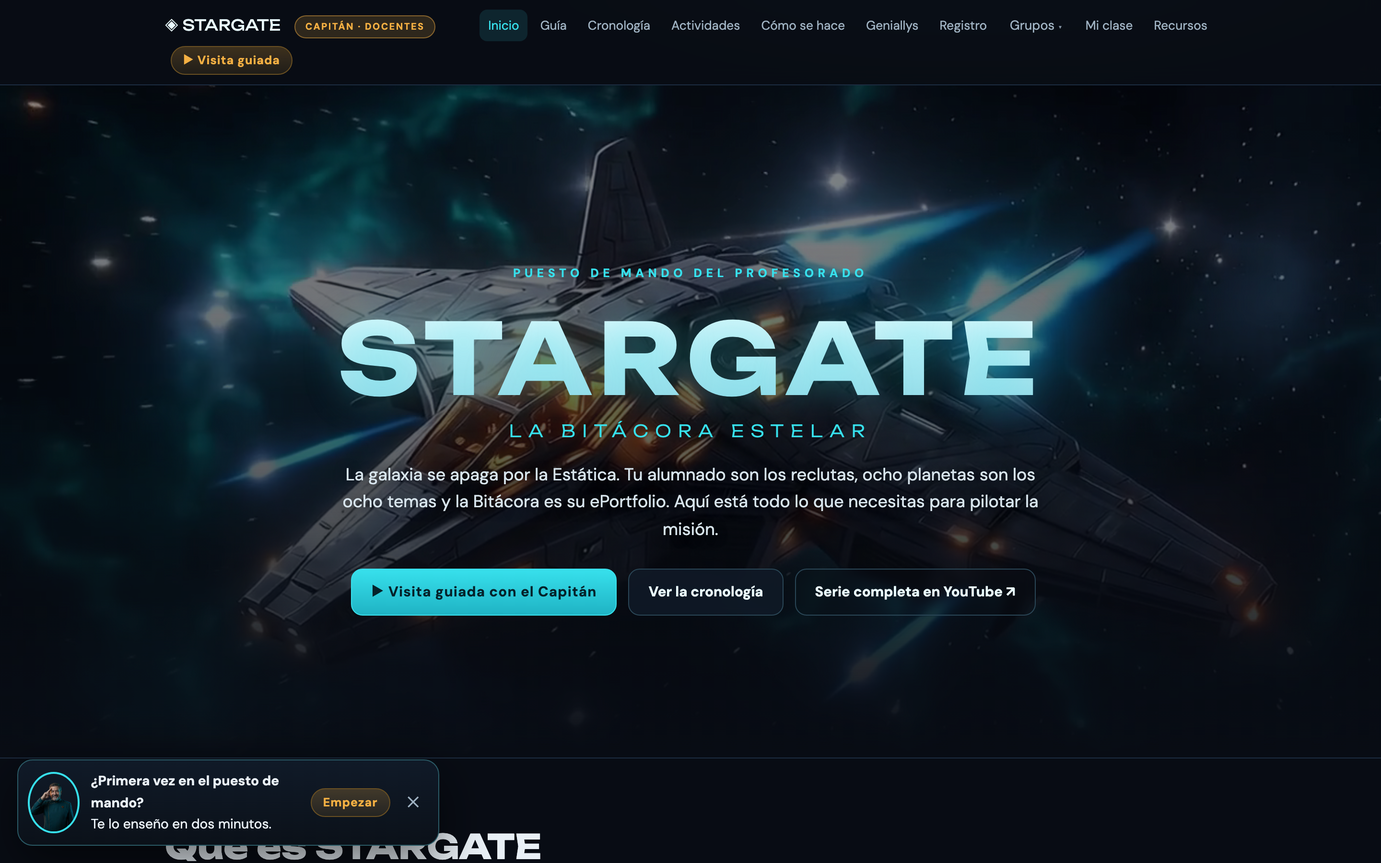
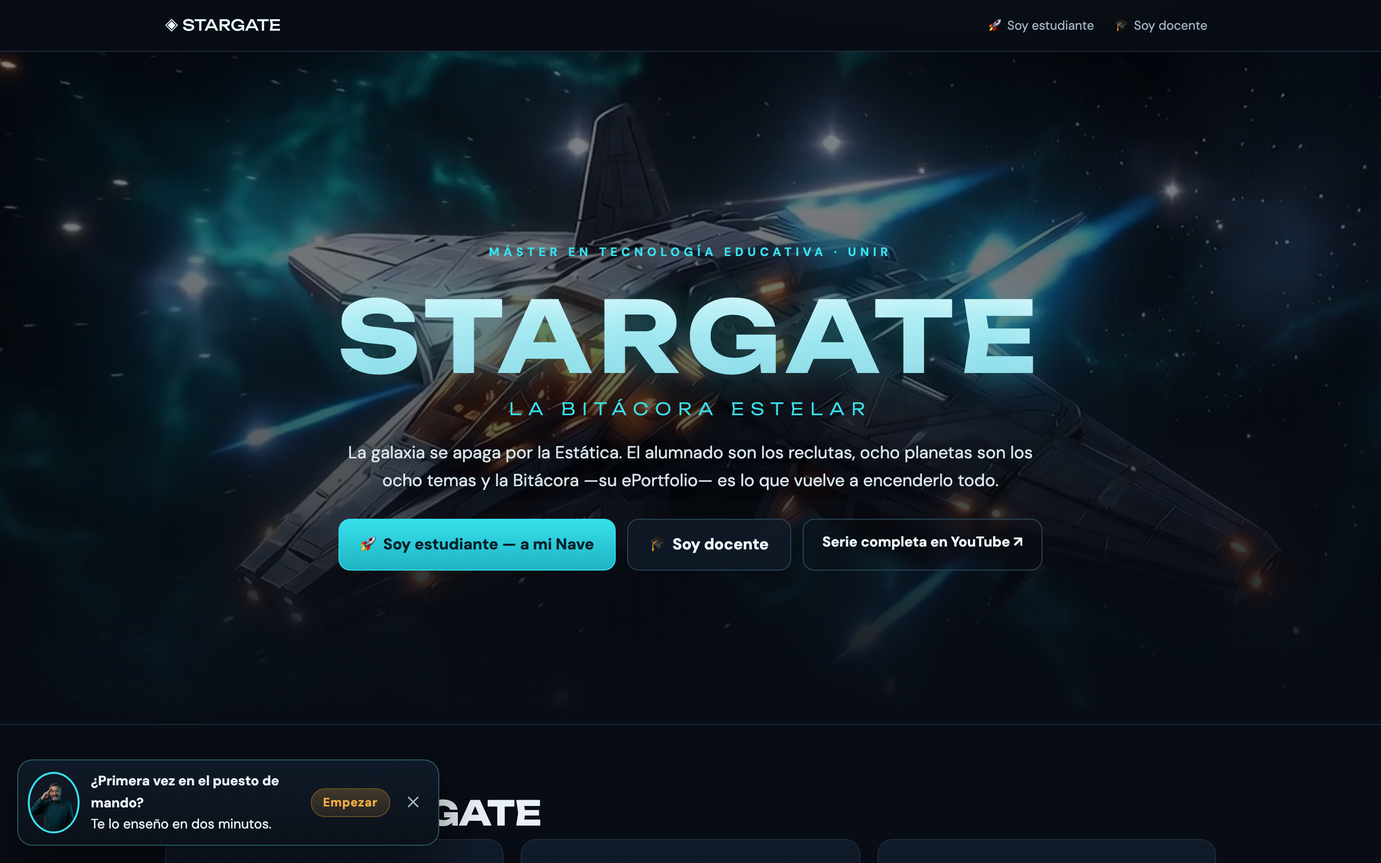
El globo del Capitan se colaba en la portada publica
Visto en una captura: la portada seguia preguntando «¿primera vez en el puesto
de mando?» — a cualquiera que pasara, un estudiante incluido. Vivia ahi de
cuando index.html ERA el puesto de mando; ahora saluda en guia.html, que es
adonde lleva «Soy docente».

De paso, por que no lo habia cazado el capturador: su barrido borraba las claves
que empiezan por «sgTour_», y esta se llama «sgTourDone» — sin guion bajo. Se
pone a mano.

tour.js se GENERA desde _build_site.py, asi que el arreglo va en la fuente:
tocar assets/js/tour.js se habria perdido en el siguiente build.

Bateria 43 vigila ahora que la portada no lleve nada del profesorado.

45 baterias · 1.999 comprobaciones · 0 fallos

diff --git a/pasos.html b/pasos.html
@@ -21,7 +21,7 @@
 Es la misma información que habría en un vídeo, pero se actualiza con el sistema en vez de envejecer con él.</p></header>
 <section id="pasos"><div class="wrap">
 <div class="caminos" role="tablist" aria-label="Elige tu camino"><button class="camino-tab" role="tab" aria-selected="true" aria-controls="cam-referente" id="tab-referente" data-camino="referente"><i>🛰</i><b>Si creas el grupo<span>Nueve pasos · se hacen UNA vez por grupo</span></b></button><button class="camino-tab" role="tab" aria-selected="false" aria-controls="cam-imparte" id="tab-imparte" data-camino="imparte"><i>🎓</i><b>Si das las clases<span>Seis pasos · cuatro de ellos son lo que harás cada semana</span></b></button><button class="camino-tab" role="tab" aria-selected="false" aria-controls="cam-estudiante" id="tab-estudiante" data-camino="estudiante"><i>🧑🚀</i><b>Si eres recluta<span>Ocho pasos · el segundo es el que importa de verdad</span></b></button></div>
-<section class="camino-panel" id="cam-referente" role="tabpanel" aria-labelledby="tab-referente"><div class="camino-intro"><p><b>Para quién:</b> El profe <b>referente</b>: una persona por curso. Crea el PER y reparte las llaves.</p><p>Todo esto vive dentro de la hoja maestra, en la cuenta <b>mutecdgami</b>. Es la única parte del sistema que no se puede enseñar desde la web, así que va con capturas.</p></div><article class="paso" id="R1"><div class="paso-num"><img class="cap" src="assets/img/capitan/saluda.png" alt="" loading="lazy"><span class="n">R1</span></div><div class="paso-cuerpo"><h3><a href="#R1">La sala de máquinas</a></h3><p class="paso-hacer">Hoja maestra → pestaña <code>PERs</code> → menú <b>STARGATE</b> desplegado.</p><figure><img src="assets/img/pasos/r1_menu.png?v=cfa4161172" alt="La sala de máquinas" loading="lazy"></figure><p class="paso-voz">Esto es la sala de máquinas de STARGATE. Es una hoja de cálculo, y desde ese menú se hace todo. Si eres el profe referente de tu grupo, esta página es para ti. Son nueve pasos, y luego casi no vuelves por aquí.</p></div></article><article class="paso" id="R2"><div class="paso-num"><img class="cap" src="assets/img/capitan/tablet.png" alt="" loading="lazy"><span class="n">R2</span></div><div class="paso-cuerpo"><h3><a href="#R2">Lo primero: el parte de salud</a></h3><p class="paso-hacer">Menú <b>STARGATE → Parte de salud del sistema</b>.</p><figure><img src="assets/img/pasos/r2_salud.png?v=c991e17fea" alt="Lo primero: el parte de salud" loading="lazy"></figure><p class="paso-voz">Antes de crear nada, esto. El parte de salud revisa el sistema entero y te dice en verde, ámbar o rojo qué está bien y qué no. Cuando algo falla, además te dice cómo se arregla. Empieza siempre por aquí, y vuelve cuando algo se comporte raro.</p></div></article><article class="paso" id="R3"><div class="paso-num"><img class="cap" src="assets/img/capitan/pensativo.png" alt="" loading="lazy"><span class="n">R3</span></div><div class="paso-cuerpo"><h3><a href="#R3">Crear el grupo</a></h3><p class="paso-hacer">Menú <b>STARGATE → Crear nuevo PER…</b> y rellenar el diálogo.</p><figure><img src="assets/img/pasos/r3_crear.png?v=c8083608e5" alt="Crear el grupo" loading="lazy"></figure><p class="paso-voz">Un PER es un grupo: un curso concreto con su gente y su calendario. El nombre es para ti. El tipo cambia el ritmo, porque REGULAR son quince semanas y PUA va comprimido. Y la fecha de la semana uno es la pieza importante: de ella dependen el foro, los desbloqueos de la Nave y las recompensas. Ponla bien y olvídate.</p></div></article><article class="paso" id="R4"><div class="paso-num"><img class="cap" src="assets/img/capitan/brazos.png" alt="" loading="lazy"><span class="n">R4</span></div><div class="paso-cuerpo"><h3><a href="#R4">Lo que aparece solo</a></h3><p class="paso-hacer">Pulsa <b>Crear</b> y espera. Al terminar sale un diálogo con todo lo creado.</p><div class="paso-falta"><b>Captura pendiente</b>Esta pantalla vive detrás de un PIN o dentro de la hoja maestra, así que el generador no puede entrar a por ella. Se añade dejando el PNG en <code>assets/img/pasos/</code> y volviendo a construir.</div><p class="paso-voz">Un minuto de paciencia. En ese minuto el sistema crea los tres formularios del grupo, el tablero en vivo, la Nave del recluta, el foro dinámico y un documento con todos los enlaces. No hay que configurar nada más: ya está funcionando.</p></div></article><article class="paso" id="R5"><div class="paso-num"><img class="cap" src="assets/img/capitan/senala.png" alt="" loading="lazy"><span class="n">R5</span></div><div class="paso-cuerpo"><h3><a href="#R5">El documento de enlaces</a></h3><p class="paso-hacer">Ábrelo desde el diálogo, o menú <b>STARGATE → Documento de enlaces y embeds</b>.</p><figure><img src="assets/img/pasos/r5_doc.png?v=75c490e360" alt="El documento de enlaces" loading="lazy"></figure><p class="paso-voz">Este documento es lo único que tienes que repartir, y está partido en dos. Lo de arriba, con el visto verde, es lo que puedes dar al alumnado sin miedo. Lo de abajo, con el candado, es solo para el profesorado: lleva dentro el enlace a la hoja maestra. No mandes el documento entero a una clase.</p></div></article><article class="paso" id="R6"><div class="paso-num"><img class="cap" src="assets/img/capitan/pensativo.png" alt="" loading="lazy"><span class="n">R6</span></div><div class="paso-cuerpo"><h3><a href="#R6">Las dos llaves</a></h3><p class="paso-hacer">Menú <b>STARGATE → Cambiar PIN del profesorado</b> y <b>→ PIN del profesor referente</b>.</p><figure><img src="assets/img/pasos/r6_pin.png?v=bc19ac964c" alt="Las dos llaves" loading="lazy"></figure><p class="paso-voz">Hay dos llaves. El PIN del profesorado lo repartes entre quienes dan clase, y les abre su sala y los tickets. El de referente te lo quedas tú, y es el que permite tocar el grupo entero: mover la semana uno, cerrar formularios, archivar. Cámbialos los dos antes de que entre nadie de verdad.</p></div></article><article class="paso" id="R7"><div class="paso-num"><img class="cap" src="assets/img/capitan/tablet.png" alt="" loading="lazy"><span class="n">R7</span></div><div class="paso-cuerpo"><h3><a href="#R7">Repartir sin perseguir a nadie</a></h3><p class="paso-hacer">Menú <b>STARGATE → Dossier del profesorado</b>, y después <b>Enviar el dossier por correo</b>.</p><figure><img src="assets/img/pasos/r7_dossier.png?v=8d94f12671" alt="Repartir sin perseguir a nadie" loading="lazy"></figure><p class="paso-voz">En vez de mandar enlaces uno a uno, el dossier reúne todos los grupos y a cada docente le llega por correo lo suyo. Si alguien lo pierde, se vuelve a mandar y ya está.</p></div></article><article class="paso" id="R8"><div class="paso-num"><img class="cap" src="assets/img/capitan/senala.png" alt="" loading="lazy"><span class="n">R8</span></div><div class="paso-cuerpo"><h3><a href="#R8">Cuando el curso acaba</a></h3><p class="paso-hacer">Selecciona la fila del grupo → menú <b>STARGATE → Ciclo de vida del PER</b>.</p><figure><img src="assets/img/pasos/r8_ciclo.png?v=fe4bf85fce" alt="Cuando el curso acaba" loading="lazy"></figure><p class="paso-voz">Cuando un grupo termina, se archiva: cierra los formularios, lo quita de en medio y conserva todos los datos. Borrar es otra cosa, y se lleva los formularios por delante, así que te pide escribir el nombre del grupo para asegurarse. Archivar es lo normal.</p></div></article><article class="paso" id="R9"><div class="paso-num"><img class="cap" src="assets/img/capitan/pulgar.png" alt="" loading="lazy"><span class="n">R9</span></div><div class="paso-cuerpo"><h3><a href="#R9">Y ya está</a></h3><p class="paso-hacer">Vuelve a la pestaña <code>PERs</code>: ahí vive tu grupo.</p><figure><img src="assets/img/pasos/r9_pers.png?v=e91679a40b" alt="Y ya está" loading="lazy"></figure><p class="paso-voz">A partir de aquí esto funciona solo. El alumnado se registra, el tablero se actualiza y a quien da clase le llega lo suyo. Si algo va raro, el parte de salud. Nos vemos arriba.</p></div></article></section><section class="camino-panel" id="cam-imparte" role="tabpanel" aria-labelledby="tab-imparte" hidden><div class="camino-intro"><p><b>Para quién:</b> Quien <b>imparte</b>. Recibes el PIN y el documento de enlaces de tu referente.</p><p>Corto a propósito. La <b>visita guiada</b> del Capitán ya te cuenta la narrativa, los retos y las insignias — púlsala arriba a la derecha. Aquí está solo lo que se hace cada semana.</p></div><article class="paso" id="D1"><div class="paso-num"><img class="cap" src="assets/img/capitan/saluda.png" alt="" loading="lazy"><span class="n">D1</span></div><div class="paso-cuerpo"><h3><a href="#D1">El atajo que deberías usar primero</a></h3><p class="paso-hacer">Portada de la web → botón <b>▶ Visita guiada</b>, arriba a la derecha.</p><figure><img src="assets/img/pasos/d1_portada.png?v=8e2f2f3e3b" alt="El atajo que deberías usar primero" loading="lazy"></figure><p class="paso-voz">Bienvenido al puesto de mando. Antes de nada, ese botón de arriba a la derecha. La visita guiada te cuenta en cinco minutos qué es STARGATE, cómo funcionan los retos y qué hace cada insignia, y te pregunta si eres referente para enseñarte más cosas o menos. Hazla cuando termines esta página. Aquí voy a enseñarte solo las cuatro cosas que harás cada semana.</p></div></article><article class="paso" id="D2"><div class="paso-num"><img class="cap" src="assets/img/capitan/senala.png" alt="" loading="lazy"><span class="n">D2</span></div><div class="paso-cuerpo"><h3><a href="#D2">Uno: la orden de la semana</a></h3><p class="paso-hacer"><b>Cronología</b> → despliega la semana que toque → abajo, botón <b>Copiar</b> del foro.</p><figure><img src="assets/img/pasos/d2_cronologia.png?v=676fe2d90e" alt="Uno: la orden de la semana" loading="lazy"></figure><p class="paso-voz">La cronología es tu carta de navegación: quince semanas, y cada una te dice qué vídeo proyectar, qué reto lanzar y qué insignia entregar. Abajo del todo está el mensaje del foro, ya escrito. Lo copias, lo pegas en el foro de la plataforma de UNIR y sigues con tu vida.</p></div></article><article class="paso" id="D3"><div class="paso-num"><img class="cap" src="assets/img/capitan/tablet.png" alt="" loading="lazy"><span class="n">D3</span></div><div class="paso-cuerpo"><h3><a href="#D3">Dos: tu sala</a></h3><p class="paso-hacer"><b>Mi clase</b> → PIN → pulsa cualquier alumno para abrir su ficha completa.</p><figure><img src="assets/img/pasos/d3_sala.png?v=cbc8a491cc" alt="Dos: tu sala" loading="lazy"></figure><p class="paso-voz">Esta es tu sala, y solo sale tu alumnado, no el del grupo entero. Si pulsas a cualquiera se abre su ficha completa: lo que lleva hecho, sus insignias, sus créditos y su correo, por si tienes que escribirle. Desde aquí también puedes darle o quitarle un reto a mano cuando algo se tuerza.</p></div></article><article class="paso" id="D4"><div class="paso-num"><img class="cap" src="assets/img/capitan/brazos.png" alt="" loading="lazy"><span class="n">D4</span></div><div class="paso-cuerpo"><h3><a href="#D4">Tres: el pase de lista</a></h3><p class="paso-hacer">En tu sala, bloque del <b>pase de lista</b> → <b>Abrir</b>. Sale una palabra de cuatro letras.</p><figure><img src="assets/img/pasos/d4_pase.png?v=ca01a3988b" alt="Tres: el pase de lista" loading="lazy"></figure><p class="paso-voz">Si das clase en directo, esto. Abres la ventana y en tu pantalla sale una palabra de cuatro letras. Quien está en clase la escribe en su Nave y cobra unos créditos. La palabra no viaja a ningún sitio: solo la ve quien te está mirando. Es simbólico, pero funciona.</p></div></article><article class="paso" id="D5"><div class="paso-num"><img class="cap" src="assets/img/capitan/pensativo.png" alt="" loading="lazy"><span class="n">D5</span></div><div class="paso-cuerpo"><h3><a href="#D5">Cuatro: los tickets</a></h3><p class="paso-hacer"><b>Tickets</b> → PIN → pulsa cualquier valoración para verla en grande.</p><figure><img src="assets/img/pasos/d5_tickets.png?v=dc8154792b" alt="Cuatro: los tickets" loading="lazy"></figure><p class="paso-voz">El ticket de salida es tu termómetro, y es anónimo, así que la gente dice lo que piensa de verdad. Pulsa cualquier resultado y se ve en grande. Y hay una versión apaisada pensada para proyectarla en clase: enseñar lo que ha votado el grupo genera más conversación que preguntarlo en voz alta.</p></div></article><article class="paso" id="D6"><div class="paso-num"><img class="cap" src="assets/img/capitan/pulgar.png" alt="" loading="lazy"><span class="n">D6</span></div><div class="paso-cuerpo"><h3><a href="#D6">Lo único que el sistema no hace por ti</a></h3><p class="paso-hacer">El tablero en vivo, con los tres rankings.</p><figure><img src="assets/img/pasos/d6_tablero.png?v=7554e04fba" alt="Lo único que el sistema no hace por ti" loading="lazy"></figure><p class="paso-voz">Y una cosa más, que no está en ninguna pantalla. Los puntos los da el sistema; la ceremonia la haces tú. Nombra en voz alta a quien recupera un personaje. Enseña el ranking en clase de vez en cuando. Eso es lo que convierte una tabla en un juego.</p></div></article></section><section class="camino-panel" id="cam-estudiante" role="tabpanel" aria-labelledby="tab-estudiante" hidden><div class="camino-intro"><p><b>Para quién:</b> El <b>alumnado</b>. Pon el enlace de esta pestaña en el Genially del tema 1 y en el foro de la semana 1.</p><p>Corto porque nadie lee instrucciones largas. Tiene un objetivo por encima de todos: que se alisten con la cuenta correcta. Es <b>el fallo más caro del sistema</b> — quien un día entra con otra cuenta desaparece de su Nave con media misión hecha.</p></div><article class="paso" id="E1"><div class="paso-num"><img class="cap" src="assets/img/capitan/saluda.png" alt="" loading="lazy"><span class="n">E1</span></div><div class="paso-cuerpo"><h3><a href="#E1">Esto es tuyo</a></h3><p class="paso-hacer">La Nave del recluta, todavía sin identificar.</p><figure><img src="assets/img/pasos/e1_nave.png?v=9f1c940114" alt="Esto es tuyo" loading="lazy"></figure><p class="paso-voz">Esto es tu nave. Ahora mismo está vacía porque todavía no te has alistado. En dos minutos vas a tener aquí tu personaje, tus puntos y tus insignias. Sígueme.</p></div></article><article class="paso aviso" id="E2"><div class="paso-num"><img class="cap" src="assets/img/capitan/senala.png" alt="" loading="lazy"><span class="n">E2</span></div><div class="paso-cuerpo"><h3><a href="#E2">La cuenta. Lo único que puede salir mal</a></h3><p class="paso-hacer">Abre la <b>Bitácora de mando</b> y mira <b>arriba del todo</b>: ahí sale tu cuenta de Google.</p><figure><img src="assets/img/pasos/e2_cuenta.png?v=edc223e6f7" alt="La cuenta. Lo único que puede salir mal" loading="lazy"></figure><p class="paso-voz">Para. Esto es lo único importante de toda la página. Arriba del todo ves con qué cuenta de Google has entrado. Tu progreso se guarda en esa cuenta. En esa, no en el correo que escribas más abajo. Si un día entras con otra, la nave no te encontrará y habrás perdido lo que llevabas. Usa siempre la misma. Míralo ahora, antes de seguir.</p></div></article><article class="paso" id="E3"><div class="paso-num"><img class="cap" src="assets/img/capitan/tablet.png" alt="" loading="lazy"><span class="n">E3</span></div><div class="paso-cuerpo"><h3><a href="#E3">Alistarse</a></h3><p class="paso-hacer">En «¿QUÉ QUIERES HACER HOY?» elige <b>ALISTARME</b>. Alias, personaje, docente y biografía.</p><figure><img src="assets/img/pasos/e3_alistarse.png?v=74332b2bb5" alt="Alistarse" loading="lazy"></figure><p class="paso-voz">Alistarme, que es la primera vez. El alias es tu nombre público: es el que sale en el tablero, tu nombre real solo lo ve el profesorado. Eliges personaje, dices quién te da clase, y escribes una biografía. La biografía la va a leer tu clase cuando pulse tu nombre en el ranking, así que dedícale diez segundos.</p></div></article><article class="paso" id="E4"><div class="paso-num"><img class="cap" src="assets/img/capitan/brazos.png" alt="" loading="lazy"><span class="n">E4</span></div><div class="paso-cuerpo"><h3><a href="#E4">Tu primer reto</a></h3><p class="paso-hacer">«¿Quieres registrar algún reto ahora?» → <b>Sí</b> → <b>Planeta 1</b> → marca la casilla y pega el enlace.</p><figure><img src="assets/img/pasos/e4_reto.png?v=aad6b11d10" alt="Tu primer reto" loading="lazy"></figure><p class="paso-voz">Y ya que estás, el primer reto. Preséntate a tu tripulación, que es un vídeo de sesenta segundos. Marcas la casilla solo cuando lo tengas hecho de verdad, pegas el enlace y envías. Un aviso importante: es el mismo enlace para siempre. Cada vez que termines algo vuelves aquí, marcas la casilla nueva y envías. Lo de antes no se borra nunca.</p></div></article><article class="paso" id="E5"><div class="paso-num"><img class="cap" src="assets/img/capitan/pensativo.png" alt="" loading="lazy"><span class="n">E5</span></div><div class="paso-cuerpo"><h3><a href="#E5">Vuelve a la nave</a></h3><p class="paso-hacer">Abre la Nave y pon tu correo una sola vez. Ahí está tu ficha.</p><figure><img src="assets/img/pasos/e5_ficha.png?v=f92801ec14" alt="Vuelve a la nave" loading="lazy"></figure><p class="paso-voz">Ahora vuelve a la nave y pon tu correo, una sola vez. Ahí está: tu personaje, tu nivel y tus puntos. Y la primera insignia, la de NEBULA, que no se regala por alistarse: hay que ganarla con el primer reto. Tu personaje cambia de aspecto según subes de nivel.</p></div></article><article class="paso" id="E6"><div class="paso-num"><img class="cap" src="assets/img/capitan/senala.png" alt="" loading="lazy"><span class="n">E6</span></div><div class="paso-cuerpo"><h3><a href="#E6">Las seis pestañas</a></h3><p class="paso-hacer">Arriba: <b>Mi ficha · Mis retos · Esta semana · Los planetas · Recompensas · El tablero</b>.</p><figure><img src="assets/img/pasos/e6_pestanas.png?v=f59862199c" alt="Las seis pestañas" loading="lazy"></figure><p class="paso-voz">Seis pestañas. Mi ficha eres tú. Mis retos, lo que llevas y lo que te falta. Esta semana, lo que toca ahora. Los planetas son los ocho temas, y se van abriendo con el calendario. Recompensas es la tienda. Y el tablero es la clase entera: si pulsas a alguien ves su personaje y su biografía.</p></div></article><article class="paso" id="E7"><div class="paso-num"><img class="cap" src="assets/img/capitan/tablet.png" alt="" loading="lazy"><span class="n">E7</span></div><div class="paso-cuerpo"><h3><a href="#E7">Dos marcadores, no uno</a></h3><p class="paso-hacer">Pestaña <b>Recompensas</b>: el catálogo con sus precios.</p><figure><img src="assets/img/pasos/e7_premios.png?v=c9b99986b8" alt="Dos marcadores, no uno" loading="lazy"></figure><p class="paso-voz">Y una cosa que confunde a todo el mundo: hay dos marcadores. Los xp suben de nivel y no se gastan nunca. Los créditos son dinero, y sí se gastan. Aquí eliges en qué. Hay cosas de adorno y cosas que tocan tu nota, así que piensa antes de fundirte el sueldo en un marco dorado.</p></div></article><article class="paso" id="E8"><div class="paso-num"><img class="cap" src="assets/img/capitan/pulgar.png" alt="" loading="lazy"><span class="n">E8</span></div><div class="paso-cuerpo"><h3><a href="#E8">Bienvenido a bordo</a></h3><p class="paso-hacer">El tablero de la clase: pulsa a cualquiera para ver su ficha.</p><figure><img src="assets/img/pasos/e8_tablero.png?v=0df493cb54" alt="Bienvenido a bordo" loading="lazy"></figure><p class="paso-voz">Eso es todo. Recuerda las dos reglas: siempre la misma cuenta de Google, y siempre el mismo enlace. Bienvenido a bordo, recluta.</p></div></article></section>
+<section class="camino-panel" id="cam-referente" role="tabpanel" aria-labelledby="tab-referente"><div class="camino-intro"><p><b>Para quién:</b> El profe <b>referente</b>: una persona por curso. Crea el PER y reparte las llaves.</p><p>Todo esto vive dentro de la hoja maestra, en la cuenta <b>mutecdgami</b>. Es la única parte del sistema que no se puede enseñar desde la web, así que va con capturas.</p></div><article class="paso" id="R1"><div class="paso-num"><img class="cap" src="assets/img/capitan/saluda.png" alt="" loading="lazy"><span class="n">R1</span></div><div class="paso-cuerpo"><h3><a href="#R1">La sala de máquinas</a></h3><p class="paso-hacer">Hoja maestra → pestaña <code>PERs</code> → menú <b>STARGATE</b> desplegado.</p><figure><img src="assets/img/pasos/r1_menu.png?v=cfa4161172" alt="La sala de máquinas" loading="lazy"></figure><p class="paso-voz">Esto es la sala de máquinas de STARGATE. Es una hoja de cálculo, y desde ese menú se hace todo. Si eres el profe referente de tu grupo, esta página es para ti. Son nueve pasos, y luego casi no vuelves por aquí.</p></div></article><article class="paso" id="R2"><div class="paso-num"><img class="cap" src="assets/img/capitan/tablet.png" alt="" loading="lazy"><span class="n">R2</span></div><div class="paso-cuerpo"><h3><a href="#R2">Lo primero: el parte de salud</a></h3><p class="paso-hacer">Menú <b>STARGATE → Parte de salud del sistema</b>.</p><figure><img src="assets/img/pasos/r2_salud.png?v=c991e17fea" alt="Lo primero: el parte de salud" loading="lazy"></figure><p class="paso-voz">Antes de crear nada, esto. El parte de salud revisa el sistema entero y te dice en verde, ámbar o rojo qué está bien y qué no. Cuando algo falla, además te dice cómo se arregla. Empieza siempre por aquí, y vuelve cuando algo se comporte raro.</p></div></article><article class="paso" id="R3"><div class="paso-num"><img class="cap" src="assets/img/capitan/pensativo.png" alt="" loading="lazy"><span class="n">R3</span></div><div class="paso-cuerpo"><h3><a href="#R3">Crear el grupo</a></h3><p class="paso-hacer">Menú <b>STARGATE → Crear nuevo PER…</b> y rellenar el diálogo.</p><figure><img src="assets/img/pasos/r3_crear.png?v=c8083608e5" alt="Crear el grupo" loading="lazy"></figure><p class="paso-voz">Un PER es un grupo: un curso concreto con su gente y su calendario. El nombre es para ti. El tipo cambia el ritmo, porque REGULAR son quince semanas y PUA va comprimido. Y la fecha de la semana uno es la pieza importante: de ella dependen el foro, los desbloqueos de la Nave y las recompensas. Ponla bien y olvídate.</p></div></article><article class="paso" id="R4"><div class="paso-num"><img class="cap" src="assets/img/capitan/brazos.png" alt="" loading="lazy"><span class="n">R4</span></div><div class="paso-cuerpo"><h3><a href="#R4">Lo que aparece solo</a></h3><p class="paso-hacer">Pulsa <b>Crear</b> y espera. Al terminar sale un diálogo con todo lo creado.</p><div class="paso-falta"><b>Captura pendiente</b>Esta pantalla vive detrás de un PIN o dentro de la hoja maestra, así que el generador no puede entrar a por ella. Se añade dejando el PNG en <code>assets/img/pasos/</code> y volviendo a construir.</div><p class="paso-voz">Un minuto de paciencia. En ese minuto el sistema crea los tres formularios del grupo, el tablero en vivo, la Nave del recluta, el foro dinámico y un documento con todos los enlaces. No hay que configurar nada más: ya está funcionando.</p></div></article><article class="paso" id="R5"><div class="paso-num"><img class="cap" src="assets/img/capitan/senala.png" alt="" loading="lazy"><span class="n">R5</span></div><div class="paso-cuerpo"><h3><a href="#R5">El documento de enlaces</a></h3><p class="paso-hacer">Ábrelo desde el diálogo, o menú <b>STARGATE → Documento de enlaces y embeds</b>.</p><figure><img src="assets/img/pasos/r5_doc.png?v=75c490e360" alt="El documento de enlaces" loading="lazy"></figure><p class="paso-voz">Este documento es lo único que tienes que repartir, y está partido en dos. Lo de arriba, con el visto verde, es lo que puedes dar al alumnado sin miedo. Lo de abajo, con el candado, es solo para el profesorado: lleva dentro el enlace a la hoja maestra. No mandes el documento entero a una clase.</p></div></article><article class="paso" id="R6"><div class="paso-num"><img class="cap" src="assets/img/capitan/pensativo.png" alt="" loading="lazy"><span class="n">R6</span></div><div class="paso-cuerpo"><h3><a href="#R6">Las dos llaves</a></h3><p class="paso-hacer">Menú <b>STARGATE → Cambiar PIN del profesorado</b> y <b>→ PIN del profesor referente</b>.</p><figure><img src="assets/img/pasos/r6_pin.png?v=bc19ac964c" alt="Las dos llaves" loading="lazy"></figure><p class="paso-voz">Hay dos llaves. El PIN del profesorado lo repartes entre quienes dan clase, y les abre su sala y los tickets. El de referente te lo quedas tú, y es el que permite tocar el grupo entero: mover la semana uno, cerrar formularios, archivar. Cámbialos los dos antes de que entre nadie de verdad.</p></div></article><article class="paso" id="R7"><div class="paso-num"><img class="cap" src="assets/img/capitan/tablet.png" alt="" loading="lazy"><span class="n">R7</span></div><div class="paso-cuerpo"><h3><a href="#R7">Repartir sin perseguir a nadie</a></h3><p class="paso-hacer">Menú <b>STARGATE → Dossier del profesorado</b>, y después <b>Enviar el dossier por correo</b>.</p><figure><img src="assets/img/pasos/r7_dossier.png?v=8d94f12671" alt="Repartir sin perseguir a nadie" loading="lazy"></figure><p class="paso-voz">En vez de mandar enlaces uno a uno, el dossier reúne todos los grupos y a cada docente le llega por correo lo suyo. Si alguien lo pierde, se vuelve a mandar y ya está.</p></div></article><article class="paso" id="R8"><div class="paso-num"><img class="cap" src="assets/img/capitan/senala.png" alt="" loading="lazy"><span class="n">R8</span></div><div class="paso-cuerpo"><h3><a href="#R8">Cuando el curso acaba</a></h3><p class="paso-hacer">Selecciona la fila del grupo → menú <b>STARGATE → Ciclo de vida del PER</b>.</p><figure><img src="assets/img/pasos/r8_ciclo.png?v=fe4bf85fce" alt="Cuando el curso acaba" loading="lazy"></figure><p class="paso-voz">Cuando un grupo termina, se archiva: cierra los formularios, lo quita de en medio y conserva todos los datos. Borrar es otra cosa, y se lleva los formularios por delante, así que te pide escribir el nombre del grupo para asegurarse. Archivar es lo normal.</p></div></article><article class="paso" id="R9"><div class="paso-num"><img class="cap" src="assets/img/capitan/pulgar.png" alt="" loading="lazy"><span class="n">R9</span></div><div class="paso-cuerpo"><h3><a href="#R9">Y ya está</a></h3><p class="paso-hacer">Vuelve a la pestaña <code>PERs</code>: ahí vive tu grupo.</p><figure><img src="assets/img/pasos/r9_pers.png?v=e91679a40b" alt="Y ya está" loading="lazy"></figure><p class="paso-voz">A partir de aquí esto funciona solo. El alumnado se registra, el tablero se actualiza y a quien da clase le llega lo suyo. Si algo va raro, el parte de salud. Nos vemos arriba.</p></div></article></section><section class="camino-panel" id="cam-imparte" role="tabpanel" aria-labelledby="tab-imparte" hidden><div class="camino-intro"><p><b>Para quién:</b> Quien <b>imparte</b>. Recibes el PIN y el documento de enlaces de tu referente.</p><p>Corto a propósito. La <b>visita guiada</b> del Capitán ya te cuenta la narrativa, los retos y las insignias — púlsala arriba a la derecha. Aquí está solo lo que se hace cada semana.</p></div><article class="paso" id="D1"><div class="paso-num"><img class="cap" src="assets/img/capitan/saluda.png" alt="" loading="lazy"><span class="n">D1</span></div><div class="paso-cuerpo"><h3><a href="#D1">El atajo que deberías usar primero</a></h3><p class="paso-hacer">Portada de la web → botón <b>▶ Visita guiada</b>, arriba a la derecha.</p><figure><img src="assets/img/pasos/d1_portada.png?v=245bf9e5a1" alt="El atajo que deberías usar primero" loading="lazy"></figure><p class="paso-voz">Bienvenido al puesto de mando. Antes de nada, ese botón de arriba a la derecha. La visita guiada te cuenta en cinco minutos qué es STARGATE, cómo funcionan los retos y qué hace cada insignia, y te pregunta si eres referente para enseñarte más cosas o menos. Hazla cuando termines esta página. Aquí voy a enseñarte solo las cuatro cosas que harás cada semana.</p></div></article><article class="paso" id="D2"><div class="paso-num"><img class="cap" src="assets/img/capitan/senala.png" alt="" loading="lazy"><span class="n">D2</span></div><div class="paso-cuerpo"><h3><a href="#D2">Uno: la orden de la semana</a></h3><p class="paso-hacer"><b>Cronología</b> → despliega la semana que toque → abajo, botón <b>Copiar</b> del foro.</p><figure><img src="assets/img/pasos/d2_cronologia.png?v=676fe2d90e" alt="Uno: la orden de la semana" loading="lazy"></figure><p class="paso-voz">La cronología es tu carta de navegación: quince semanas, y cada una te dice qué vídeo proyectar, qué reto lanzar y qué insignia entregar. Abajo del todo está el mensaje del foro, ya escrito. Lo copias, lo pegas en el foro de la plataforma de UNIR y sigues con tu vida.</p></div></article><article class="paso" id="D3"><div class="paso-num"><img class="cap" src="assets/img/capitan/tablet.png" alt="" loading="lazy"><span class="n">D3</span></div><div class="paso-cuerpo"><h3><a href="#D3">Dos: tu sala</a></h3><p class="paso-hacer"><b>Mi clase</b> → PIN → pulsa cualquier alumno para abrir su ficha completa.</p><figure><img src="assets/img/pasos/d3_sala.png?v=cbc8a491cc" alt="Dos: tu sala" loading="lazy"></figure><p class="paso-voz">Esta es tu sala, y solo sale tu alumnado, no el del grupo entero. Si pulsas a cualquiera se abre su ficha completa: lo que lleva hecho, sus insignias, sus créditos y su correo, por si tienes que escribirle. Desde aquí también puedes darle o quitarle un reto a mano cuando algo se tuerza.</p></div></article><article class="paso" id="D4"><div class="paso-num"><img class="cap" src="assets/img/capitan/brazos.png" alt="" loading="lazy"><span class="n">D4</span></div><div class="paso-cuerpo"><h3><a href="#D4">Tres: el pase de lista</a></h3><p class="paso-hacer">En tu sala, bloque del <b>pase de lista</b> → <b>Abrir</b>. Sale una palabra de cuatro letras.</p><figure><img src="assets/img/pasos/d4_pase.png?v=ca01a3988b" alt="Tres: el pase de lista" loading="lazy"></figure><p class="paso-voz">Si das clase en directo, esto. Abres la ventana y en tu pantalla sale una palabra de cuatro letras. Quien está en clase la escribe en su Nave y cobra unos créditos. La palabra no viaja a ningún sitio: solo la ve quien te está mirando. Es simbólico, pero funciona.</p></div></article><article class="paso" id="D5"><div class="paso-num"><img class="cap" src="assets/img/capitan/pensativo.png" alt="" loading="lazy"><span class="n">D5</span></div><div class="paso-cuerpo"><h3><a href="#D5">Cuatro: los tickets</a></h3><p class="paso-hacer"><b>Tickets</b> → PIN → pulsa cualquier valoración para verla en grande.</p><figure><img src="assets/img/pasos/d5_tickets.png?v=dc8154792b" alt="Cuatro: los tickets" loading="lazy"></figure><p class="paso-voz">El ticket de salida es tu termómetro, y es anónimo, así que la gente dice lo que piensa de verdad. Pulsa cualquier resultado y se ve en grande. Y hay una versión apaisada pensada para proyectarla en clase: enseñar lo que ha votado el grupo genera más conversación que preguntarlo en voz alta.</p></div></article><article class="paso" id="D6"><div class="paso-num"><img class="cap" src="assets/img/capitan/pulgar.png" alt="" loading="lazy"><span class="n">D6</span></div><div class="paso-cuerpo"><h3><a href="#D6">Lo único que el sistema no hace por ti</a></h3><p class="paso-hacer">El tablero en vivo, con los tres rankings.</p><figure><img src="assets/img/pasos/d6_tablero.png?v=7554e04fba" alt="Lo único que el sistema no hace por ti" loading="lazy"></figure><p class="paso-voz">Y una cosa más, que no está en ninguna pantalla. Los puntos los da el sistema; la ceremonia la haces tú. Nombra en voz alta a quien recupera un personaje. Enseña el ranking en clase de vez en cuando. Eso es lo que convierte una tabla en un juego.</p></div></article></section><section class="camino-panel" id="cam-estudiante" role="tabpanel" aria-labelledby="tab-estudiante" hidden><div class="camino-intro"><p><b>Para quién:</b> El <b>alumnado</b>. Pon el enlace de esta pestaña en el Genially del tema 1 y en el foro de la semana 1.</p><p>Corto porque nadie lee instrucciones largas. Tiene un objetivo por encima de todos: que se alisten con la cuenta correcta. Es <b>el fallo más caro del sistema</b> — quien un día entra con otra cuenta desaparece de su Nave con media misión hecha.</p></div><article class="paso" id="E1"><div class="paso-num"><img class="cap" src="assets/img/capitan/saluda.png" alt="" loading="lazy"><span class="n">E1</span></div><div class="paso-cuerpo"><h3><a href="#E1">Esto es tuyo</a></h3><p class="paso-hacer">La Nave del recluta, todavía sin identificar.</p><figure><img src="assets/img/pasos/e1_nave.png?v=03fffc65e7" alt="Esto es tuyo" loading="lazy"></figure><p class="paso-voz">Esto es tu nave. Ahora mismo está vacía porque todavía no te has alistado. En dos minutos vas a tener aquí tu personaje, tus puntos y tus insignias. Sígueme.</p></div></article><article class="paso aviso" id="E2"><div class="paso-num"><img class="cap" src="assets/img/capitan/senala.png" alt="" loading="lazy"><span class="n">E2</span></div><div class="paso-cuerpo"><h3><a href="#E2">La cuenta. Lo único que puede salir mal</a></h3><p class="paso-hacer">Abre la <b>Bitácora de mando</b> y mira <b>arriba del todo</b>: ahí sale tu cuenta de Google.</p><figure><img src="assets/img/pasos/e2_cuenta.png?v=edc223e6f7" alt="La cuenta. Lo único que puede salir mal" loading="lazy"></figure><p class="paso-voz">Para. Esto es lo único importante de toda la página. Arriba del todo ves con qué cuenta de Google has entrado. Tu progreso se guarda en esa cuenta. En esa, no en el correo que escribas más abajo. Si un día entras con otra, la nave no te encontrará y habrás perdido lo que llevabas. Usa siempre la misma. Míralo ahora, antes de seguir.</p></div></article><article class="paso" id="E3"><div class="paso-num"><img class="cap" src="assets/img/capitan/tablet.png" alt="" loading="lazy"><span class="n">E3</span></div><div class="paso-cuerpo"><h3><a href="#E3">Alistarse</a></h3><p class="paso-hacer">En «¿QUÉ QUIERES HACER HOY?» elige <b>ALISTARME</b>. Alias, personaje, docente y biografía.</p><figure><img src="assets/img/pasos/e3_alistarse.png?v=74332b2bb5" alt="Alistarse" loading="lazy"></figure><p class="paso-voz">Alistarme, que es la primera vez. El alias es tu nombre público: es el que sale en el tablero, tu nombre real solo lo ve el profesorado. Eliges personaje, dices quién te da clase, y escribes una biografía. La biografía la va a leer tu clase cuando pulse tu nombre en el ranking, así que dedícale diez segundos.</p></div></article><article class="paso" id="E4"><div class="paso-num"><img class="cap" src="assets/img/capitan/brazos.png" alt="" loading="lazy"><span class="n">E4</span></div><div class="paso-cuerpo"><h3><a href="#E4">Tu primer reto</a></h3><p class="paso-hacer">«¿Quieres registrar algún reto ahora?» → <b>Sí</b> → <b>Planeta 1</b> → marca la casilla y pega el enlace.</p><figure><img src="assets/img/pasos/e4_reto.png?v=aad6b11d10" alt="Tu primer reto" loading="lazy"></figure><p class="paso-voz">Y ya que estás, el primer reto. Preséntate a tu tripulación, que es un vídeo de sesenta segundos. Marcas la casilla solo cuando lo tengas hecho de verdad, pegas el enlace y envías. Un aviso importante: es el mismo enlace para siempre. Cada vez que termines algo vuelves aquí, marcas la casilla nueva y envías. Lo de antes no se borra nunca.</p></div></article><article class="paso" id="E5"><div class="paso-num"><img class="cap" src="assets/img/capitan/pensativo.png" alt="" loading="lazy"><span class="n">E5</span></div><div class="paso-cuerpo"><h3><a href="#E5">Vuelve a la nave</a></h3><p class="paso-hacer">Abre la Nave y pon tu correo una sola vez. Ahí está tu ficha.</p><figure><img src="assets/img/pasos/e5_ficha.png?v=f92801ec14" alt="Vuelve a la nave" loading="lazy"></figure><p class="paso-voz">Ahora vuelve a la nave y pon tu correo, una sola vez. Ahí está: tu personaje, tu nivel y tus puntos. Y la primera insignia, la de NEBULA, que no se regala por alistarse: hay que ganarla con el primer reto. Tu personaje cambia de aspecto según subes de nivel.</p></div></article><article class="paso" id="E6"><div class="paso-num"><img class="cap" src="assets/img/capitan/senala.png" alt="" loading="lazy"><span class="n">E6</span></div><div class="paso-cuerpo"><h3><a href="#E6">Las seis pestañas</a></h3><p class="paso-hacer">Arriba: <b>Mi ficha · Mis retos · Esta semana · Los planetas · Recompensas · El tablero</b>.</p><figure><img src="assets/img/pasos/e6_pestanas.png?v=f59862199c" alt="Las seis pestañas" loading="lazy"></figure><p class="paso-voz">Seis pestañas. Mi ficha eres tú. Mis retos, lo que llevas y lo que te falta. Esta semana, lo que toca ahora. Los planetas son los ocho temas, y se van abriendo con el calendario. Recompensas es la tienda. Y el tablero es la clase entera: si pulsas a alguien ves su personaje y su biografía.</p></div></article><article class="paso" id="E7"><div class="paso-num"><img class="cap" src="assets/img/capitan/tablet.png" alt="" loading="lazy"><span class="n">E7</span></div><div class="paso-cuerpo"><h3><a href="#E7">Dos marcadores, no uno</a></h3><p class="paso-hacer">Pestaña <b>Recompensas</b>: el catálogo con sus precios.</p><figure><img src="assets/img/pasos/e7_premios.png?v=c9b99986b8" alt="Dos marcadores, no uno" loading="lazy"></figure><p class="paso-voz">Y una cosa que confunde a todo el mundo: hay dos marcadores. Los xp suben de nivel y no se gastan nunca. Los créditos son dinero, y sí se gastan. Aquí eliges en qué. Hay cosas de adorno y cosas que tocan tu nota, así que piensa antes de fundirte el sueldo en un marco dorado.</p></div></article><article class="paso" id="E8"><div class="paso-num"><img class="cap" src="assets/img/capitan/pulgar.png" alt="" loading="lazy"><span class="n">E8</span></div><div class="paso-cuerpo"><h3><a href="#E8">Bienvenido a bordo</a></h3><p class="paso-hacer">El tablero de la clase: pulsa a cualquiera para ver su ficha.</p><figure><img src="assets/img/pasos/e8_tablero.png?v=0df493cb54" alt="Bienvenido a bordo" loading="lazy"></figure><p class="paso-voz">Eso es todo. Recuerda las dos reglas: siempre la misma cuenta de Google, y siempre el mismo enlace. Bienvenido a bordo, recluta.</p></div></article></section>
 </div></section>
 
 <script>

diff --git a/assets/js/tour.js b/assets/js/tour.js
@@ -151,8 +151,11 @@
     }};
   // al saltar de pagina en pagina, el navegador restaura SU scroll y se lleva por delante el nuestro
   var q=qs(); if(q!==null){ try{ if('scrollRestoration' in history) history.scrollRestoration='manual'; }catch(e){} render(q); }
-  // primera visita a la portada: invitación discreta
-  if(page()==='index.html' && q===null && !localStorage.getItem('sgTourDone') && !localStorage.getItem(KEY)){
+  // 🔴 9-sep · LA INVITACION SE MUDA A LA GUIA. Vivia en index.html cuando index.html ERA el puesto
+  // de mando. Desde que la portada es la puerta publica del proyecto, el globo del Capitan le
+  // preguntaba «¿primera vez en el puesto de mando?» a cualquiera que pasara por ahi — a un
+  // estudiante, a alguien de fuera. Ahora saluda en guia.html, que es adonde lleva «Soy docente».
+  if(page()==='guia.html' && q===null && !localStorage.getItem('sgTourDone') && !localStorage.getItem(KEY)){
     var inv=document.createElement('div'); inv.className='tour-invite';
     inv.innerHTML='<img src="assets/img/capitan/saluda.png" alt=""><div><b>¿Primera vez en el puesto de mando?</b><br>Te lo enseño en dos minutos.</div><button type="button" class="tour-start">Empezar</button><button type="button" class="x" aria-label="Cerrar">✕</button>';
     document.body.appendChild(inv);

diff --git a/pruebas/prueba43_puerta_web.js b/pruebas/prueba43_puerta_web.js
@@ -62,4 +62,22 @@ const A = leer("actividades.html");
     f + " sigue accesible: es material del alumnado, no del profesorado");
 });
 
+
+// ---------------------------------------------------------------- la portada es PUBLICA de verdad
+// 9-sep · Visto en una captura: la portada seguia enseñando el globo del Capitan «¿primera vez en
+// el puesto de mando?». Vivia ahi de cuando index.html ERA el puesto de mando, y se lo preguntaba
+// a cualquiera — a un estudiante, a alguien de fuera. Con el menu pasa igual.
+const tour = leer("assets/js/tour.js");
+c(/page\(\)==='guia\.html' && q===null/.test(tour),
+  "🔴 la invitación del Capitán saluda en la guía, no en la portada pública");
+c(!/page\(\)==='index\.html' && q===null/.test(tour),
+  "   y ya no se dispara en index.html");
+
+const port = leer("index.html");
+["Mi clase", "tour-start", "modo docente"].forEach(function(t){
+  c(port.indexOf(t) < 0, "🔴 la portada no lleva «" + t + "»: es la puerta de todos, no la del profesorado");
+});
+c(port.indexOf('href="recluta.html">🚀 Soy estudiante') >= 0 && port.indexOf('href="guia.html">🎓 Soy docente') >= 0,
+  "🔴 y su menú son las dos puertas: estudiante y docente");
+
 E.resumen("La puerta del profesorado");

diff --git a/actividades.html b/actividades.html
@@ -8,7 +8,7 @@
 <link rel="stylesheet" href="assets/css/stargate.css?v=5ac69b5f8c">
 <script>window.SG_TABLERO_API="https://script.google.com/macros/s/AKfycbxlrRGIBJPD9h8-6D46Y4IJ8Gb2fu9v4-6wYZjgPAom2W1QfLh14ltBZmXV2Sx3_nXvPg/exec";</script>
 <script src="assets/js/stargate.js?v=11231d47e0" defer></script>
-<script src="assets/js/tour.js?v=5ccb454a95" defer></script>
+<script src="assets/js/tour.js?v=bb700ee487" defer></script>
 <script>document.documentElement.classList.add("cerrado")</script><script src="assets/js/puerta.js?v=131b6981c5" defer></script>
 </head><body>
 <nav class="nav"><div class="wrap">

diff --git a/cronologia.html b/cronologia.html
@@ -8,7 +8,7 @@
 <link rel="stylesheet" href="assets/css/stargate.css?v=5ac69b5f8c">
 <script>window.SG_TABLERO_API="https://script.google.com/macros/s/AKfycbxlrRGIBJPD9h8-6D46Y4IJ8Gb2fu9v4-6wYZjgPAom2W1QfLh14ltBZmXV2Sx3_nXvPg/exec";</script>
 <script src="assets/js/stargate.js?v=11231d47e0" defer></script>
-<script src="assets/js/tour.js?v=5ccb454a95" defer></script>
+<script src="assets/js/tour.js?v=bb700ee487" defer></script>
 <script>document.documentElement.classList.add("cerrado")</script><script src="assets/js/puerta.js?v=131b6981c5" defer></script>
 </head><body>
 <nav class="nav"><div class="wrap">

diff --git a/embed.html b/embed.html
@@ -8,7 +8,7 @@
 <link rel="stylesheet" href="assets/css/stargate.css?v=5ac69b5f8c">
 <script>window.SG_TABLERO_API="https://script.google.com/macros/s/AKfycbxlrRGIBJPD9h8-6D46Y4IJ8Gb2fu9v4-6wYZjgPAom2W1QfLh14ltBZmXV2Sx3_nXvPg/exec";</script>
 <script src="assets/js/stargate.js?v=11231d47e0" defer></script>
-<script src="assets/js/tour.js?v=5ccb454a95" defer></script>
+<script src="assets/js/tour.js?v=bb700ee487" defer></script>
 <script>document.documentElement.classList.add("cerrado")</script><script src="assets/js/puerta.js?v=131b6981c5" defer></script>
 </head><body>
 <nav class="nav"><div class="wrap">

diff --git a/geniallys.html b/geniallys.html
@@ -8,7 +8,7 @@
 <link rel="stylesheet" href="assets/css/stargate.css?v=5ac69b5f8c">
 <script>window.SG_TABLERO_API="https://script.google.com/macros/s/AKfycbxlrRGIBJPD9h8-6D46Y4IJ8Gb2fu9v4-6wYZjgPAom2W1QfLh14ltBZmXV2Sx3_nXvPg/exec";</script>
 <script src="assets/js/stargate.js?v=11231d47e0" defer></script>
-<script src="assets/js/tour.js?v=5ccb454a95" defer></script>
+<script src="assets/js/tour.js?v=bb700ee487" defer></script>
 <script>document.documentElement.classList.add("cerrado")</script><script src="assets/js/puerta.js?v=131b6981c5" defer></script>
 </head><body>
 <nav class="nav"><div class="wrap">

diff --git a/grupos.html b/grupos.html
@@ -8,7 +8,7 @@
 <link rel="stylesheet" href="assets/css/stargate.css?v=5ac69b5f8c">
 <script>window.SG_TABLERO_API="https://script.google.com/macros/s/AKfycbxlrRGIBJPD9h8-6D46Y4IJ8Gb2fu9v4-6wYZjgPAom2W1QfLh14ltBZmXV2Sx3_nXvPg/exec";</script>
 <script src="assets/js/stargate.js?v=11231d47e0" defer></script>
-<script src="assets/js/tour.js?v=5ccb454a95" defer></script>
+<script src="assets/js/tour.js?v=bb700ee487" defer></script>
 <script>document.documentElement.classList.add("cerrado")</script><script src="assets/js/puerta.js?v=131b6981c5" defer></script>
 </head><body>
 <nav class="nav"><div class="wrap">

diff --git a/guia.html b/guia.html
@@ -8,7 +8,7 @@
 <link rel="stylesheet" href="assets/css/stargate.css?v=5ac69b5f8c">
 <script>window.SG_TABLERO_API="https://script.google.com/macros/s/AKfycbxlrRGIBJPD9h8-6D46Y4IJ8Gb2fu9v4-6wYZjgPAom2W1QfLh14ltBZmXV2Sx3_nXvPg/exec";</script>
 <script src="assets/js/stargate.js?v=11231d47e0" defer></script>
-<script src="assets/js/tour.js?v=5ccb454a95" defer></script>
+<script src="assets/js/tour.js?v=bb700ee487" defer></script>
 <script>document.documentElement.classList.add("cerrado")</script><script src="assets/js/puerta.js?v=131b6981c5" defer></script>
 </head><body>
 <nav class="nav"><div class="wrap">

diff --git a/recursos.html b/recursos.html
@@ -8,7 +8,7 @@
 <link rel="stylesheet" href="assets/css/stargate.css?v=5ac69b5f8c">
 <script>window.SG_TABLERO_API="https://script.google.com/macros/s/AKfycbxlrRGIBJPD9h8-6D46Y4IJ8Gb2fu9v4-6wYZjgPAom2W1QfLh14ltBZmXV2Sx3_nXvPg/exec";</script>
 <script src="assets/js/stargate.js?v=11231d47e0" defer></script>
-<script src="assets/js/tour.js?v=5ccb454a95" defer></script>
+<script src="assets/js/tour.js?v=bb700ee487" defer></script>
 <script>document.documentElement.classList.add("cerrado")</script><script src="assets/js/puerta.js?v=131b6981c5" defer></script>
 </head><body>
 <nav class="nav"><div class="wrap">

diff --git a/registro.html b/registro.html
@@ -8,7 +8,7 @@
 <link rel="stylesheet" href="assets/css/stargate.css?v=5ac69b5f8c">
 <script>window.SG_TABLERO_API="https://script.google.com/macros/s/AKfycbxlrRGIBJPD9h8-6D46Y4IJ8Gb2fu9v4-6wYZjgPAom2W1QfLh14ltBZmXV2Sx3_nXvPg/exec";</script>
 <script src="assets/js/stargate.js?v=11231d47e0" defer></script>
-<script src="assets/js/tour.js?v=5ccb454a95" defer></script>
+<script src="assets/js/tour.js?v=bb700ee487" defer></script>
 <script>document.documentElement.classList.add("cerrado")</script><script src="assets/js/puerta.js?v=131b6981c5" defer></script>
 </head><body>
 <nav class="nav"><div class="wrap">

diff --git a/clase.html b/clase.html
@@ -8,7 +8,7 @@
 <link rel="stylesheet" href="assets/css/stargate.css?v=5ac69b5f8c">
 <script>window.SG_TABLERO_API="https://script.google.com/macros/s/AKfycbxlrRGIBJPD9h8-6D46Y4IJ8Gb2fu9v4-6wYZjgPAom2W1QfLh14ltBZmXV2Sx3_nXvPg/exec";</script>
 <script src="assets/js/stargate.js?v=11231d47e0" defer></script>
-<script src="assets/js/tour.js?v=5ccb454a95" defer></script>
+<script src="assets/js/tour.js?v=bb700ee487" defer></script>
 
 </head><body>
 <nav class="nav"><div class="wrap">
